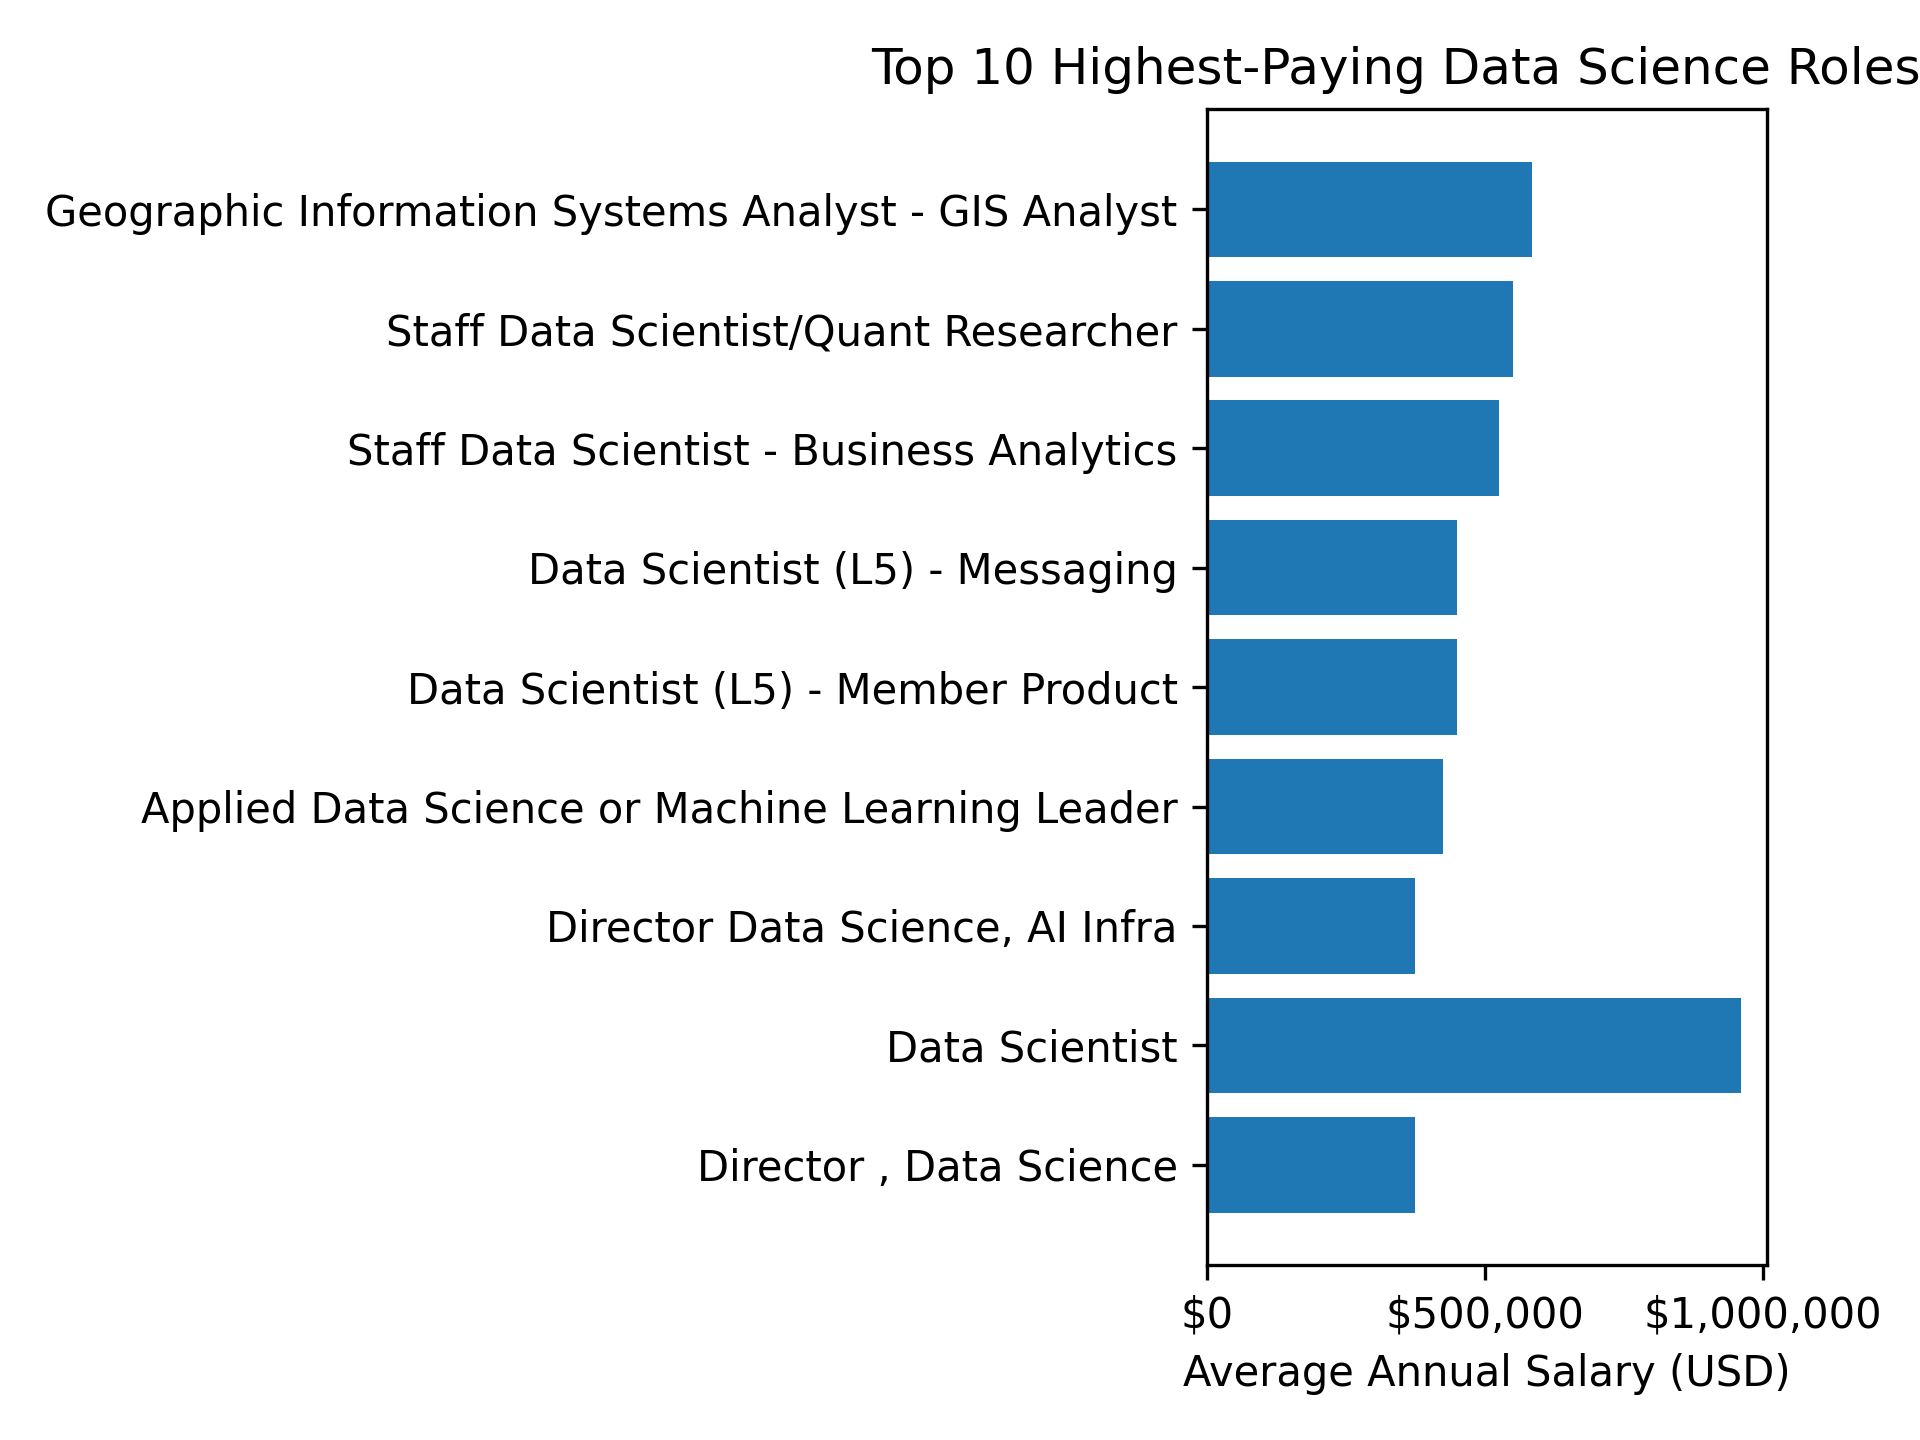
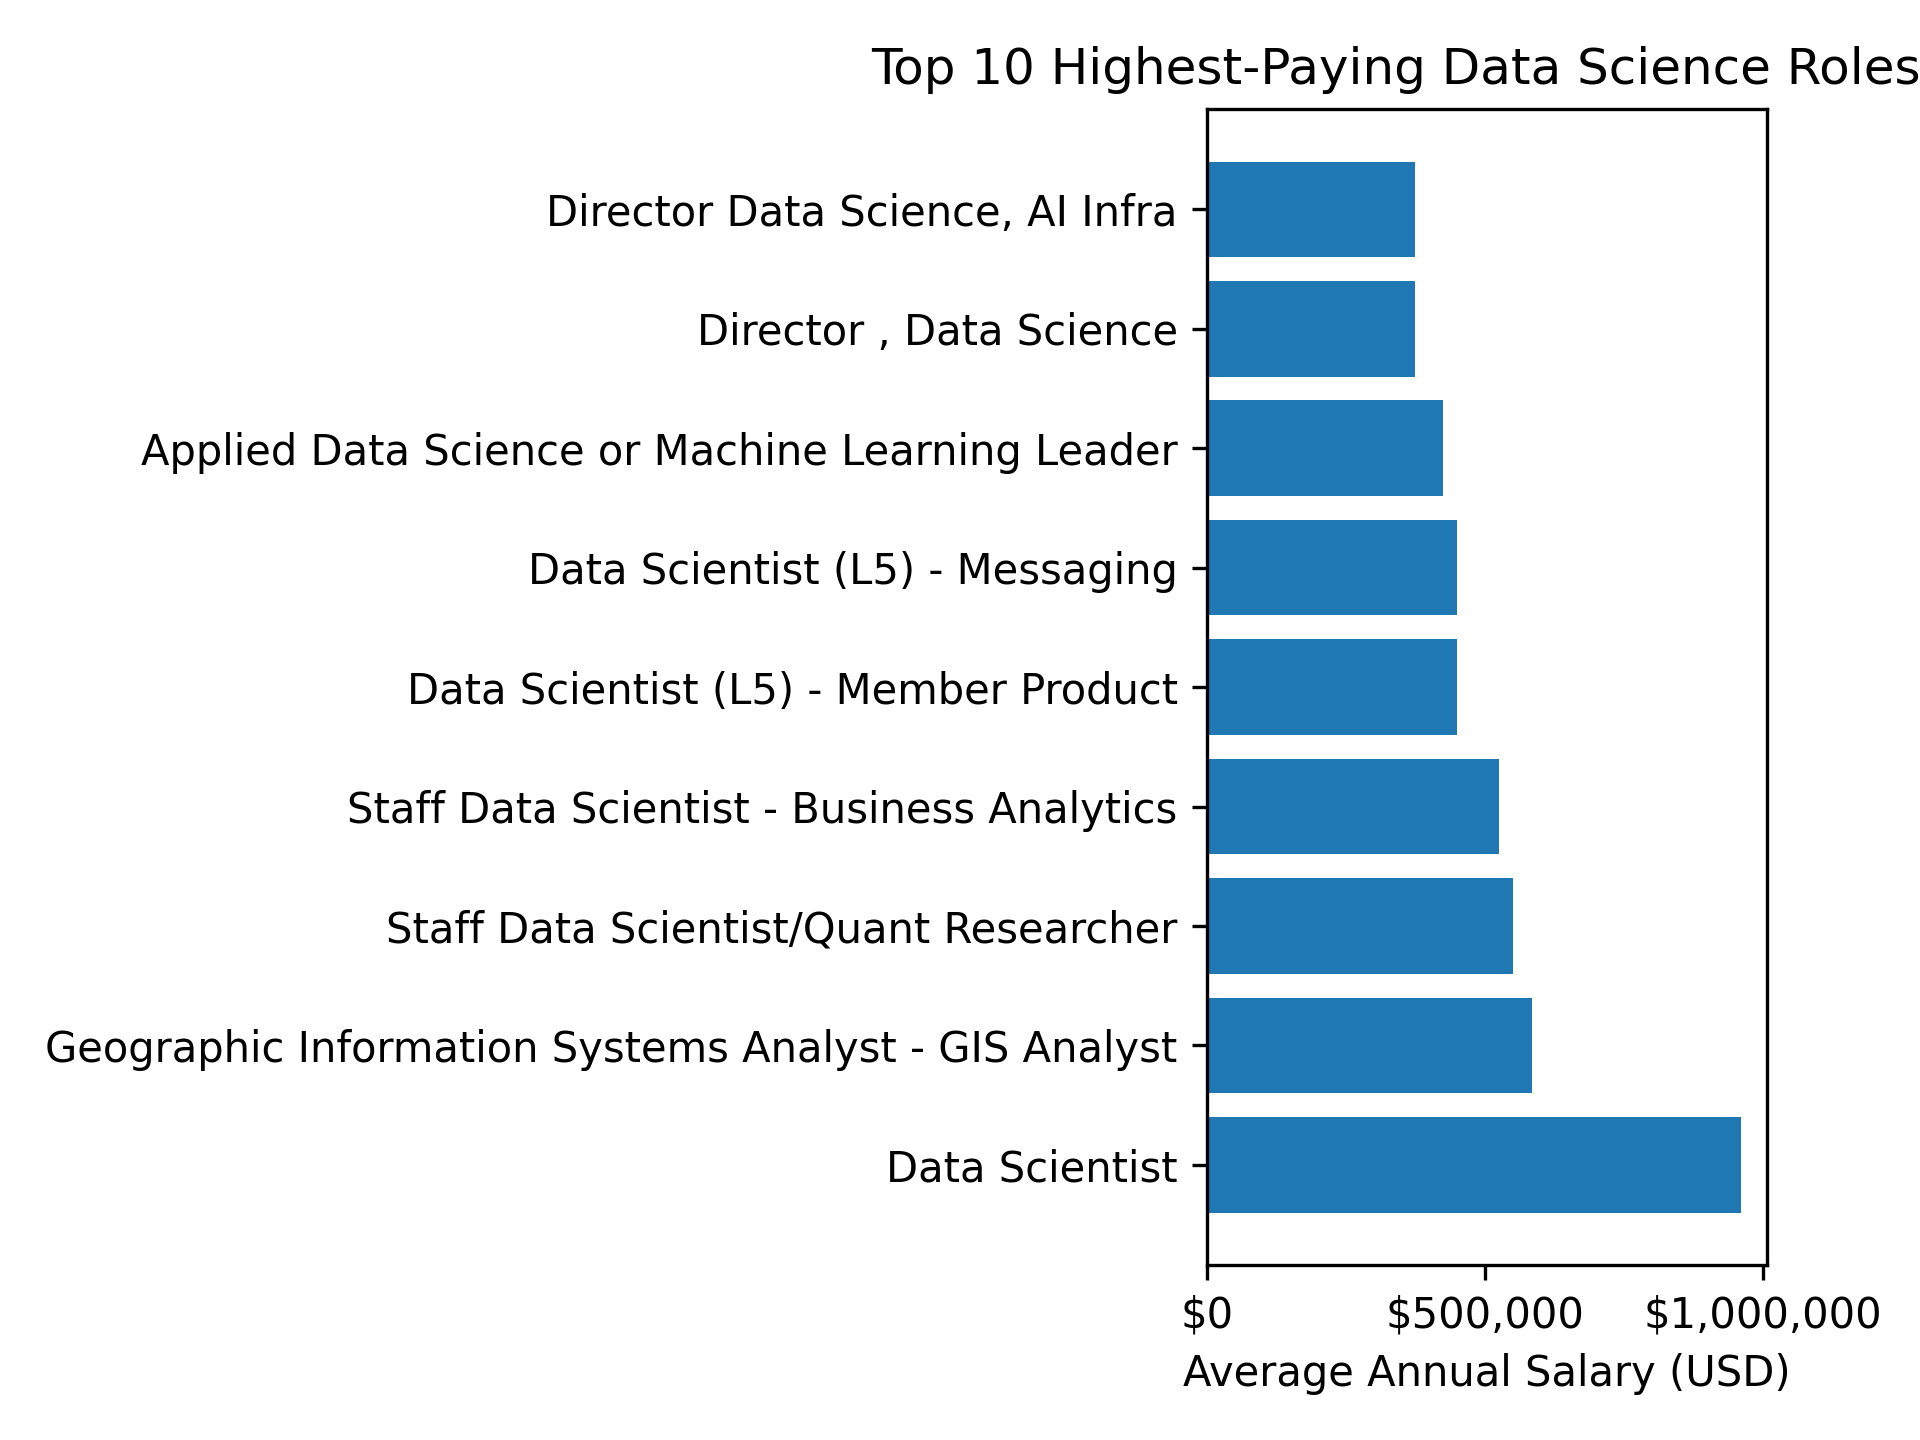
rearranged graph for query1, updated readme

diff --git a/project_visualization/top_paying_jobs.py b/project_visualization/top_paying_jobs.py
@@ -19,7 +19,7 @@ df = pd.read_csv(DATA_PATH)
 # data preparation
 
 df[X_COLUMN] = df[X_COLUMN].astype(float)
-df = df.sort_values(by=X_COLUMN, ascending=True)
+df = df.sort_values(by=X_COLUMN, ascending=False)
 
 # format function for plot scale
 def dollars(x, pos):

diff --git a/README.md b/README.md
@@ -53,5 +53,47 @@ ORDER BY
 LIMIT 10;
 ```
 
+Here's the breakdown of the top data science positions from 2023:
+- **Data Skewed:** The data is significantly skewed with one position far exceeding the rest.
+- **Senior:** The roles with the highest pay are more senior and leadership roles.
+- **Role Type:** Most of the highest paying roles are specialized, not just with the title of Data Scientist.
+
+![Top-Paying Roles](assets/top_paying_jobs.png)
+*Bar graph visualizing the top 10 salaries for Data Scientist roles.*
+
+### 2. Skills for Top Paying Data Analyst Jobs
+To understand what skills are required for these top-paying positions, I joined the job postings with the skills data. This highlighted what employers value for high-paying roles.
+
+```sql
+WITH top_paying_jobs AS (
+    SELECT
+        job_id,
+        job_title,
+        salary_year_avg,
+        name AS company_name
+    FROM
+        job_postings_fact
+    LEFT JOIN company_dim ON job_postings_fact.company_id = company_dim.company_id
+    WHERE
+        job_title_short = 'Data Scientist' AND
+        job_location = 'Anywhere' AND
+        salary_year_avg IS NOT NULL
+    ORDER BY
+        salary_year_avg DESC
+    LIMIT 10
+)
+
+SELECT
+    top_paying_jobs.*,
+    skills
+FROM top_paying_jobs
+INNER JOIN skills_job_dim ON top_paying_jobs.job_id = skills_job_dim.job_id
+INNER JOIN skills_dim ON skills_job_dim.skill_id = skills_dim.skill_id
+ORDER BY
+    salary_year_avg DESC;
+```
+
+
+
 # What I Learned
 # Conclusions
